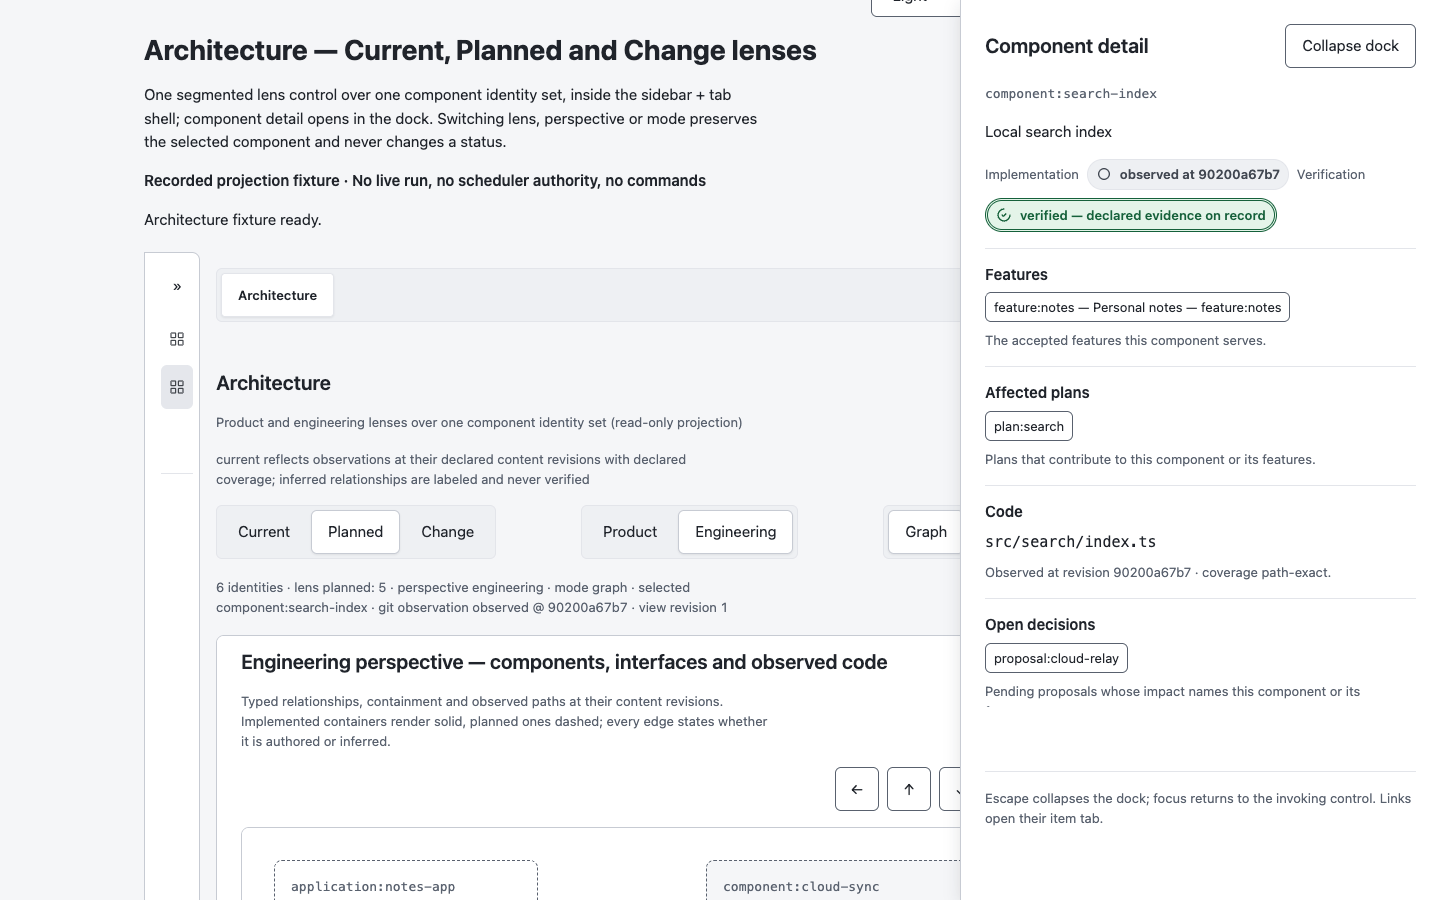
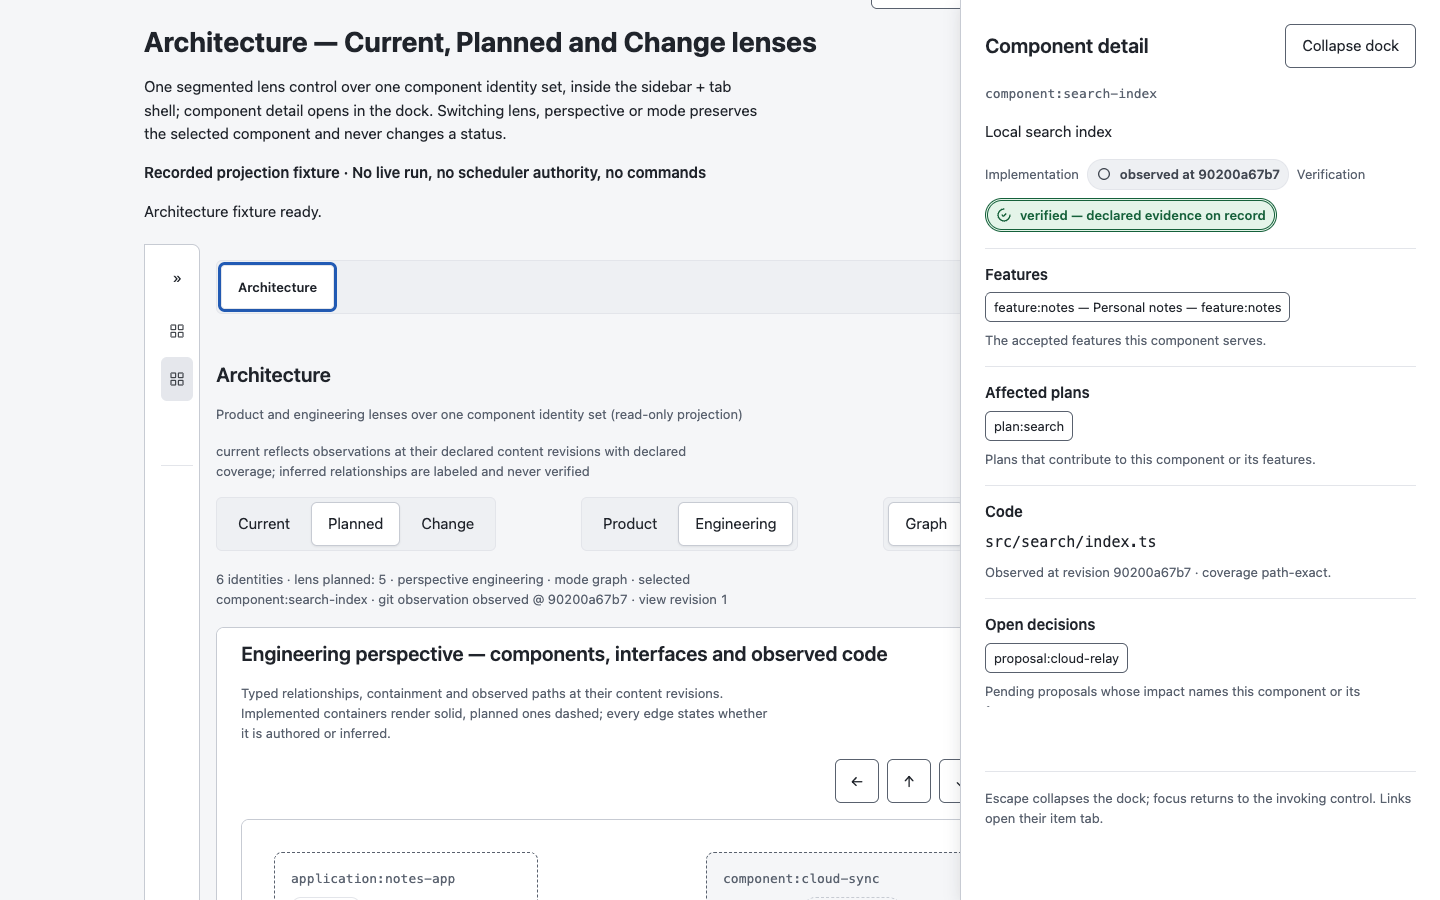
fix(ui): architecture audit round 2 — density gutters, accent preview, honest captures (T17)
Capture-session findings folded back into the view, then re-verified:

- SP-2: card-class containers (identity, journey, step, feature, change
  group) now share ONE padding driven by --density-gutter (16px regular /
  8px compact) like the overview tiles, so compact density shrinks gutters
  and never targets.
- CL-5: the demo page accepts ?product=<runtime> and flows it into the
  shell identity (sidebar badge + runtime label) — the accent preview is a
  load-time condition from the real per-product tokens, not a capture-time
  DOM edit; nothing status-like recolors.
- Retaken capture set with a frame-settled harness (double rAF + real
  input before every grab): headless Chrome can keep serving the last
  presented surface for attribute-only mutations, which had produced
  byte-identical captures across distinct accent/density states. The
  audit matrix now cites the corrected captures (three lenses + dock
  detail in light and dark, 390/1440 both themes, loading/empty/error,
  density pair with probe-asserted gutter tokens, focus ring, accent
  preview, polling tick, minimap at mid-width).

diff --git a/lazybuddy-plugin/shared/dashboard/ui/architecture.css b/lazybuddy-plugin/shared/dashboard/ui/architecture.css
@@ -23,8 +23,10 @@
 .architecture-status { min-block-size: var(--control); display: flex; align-items: center; margin: 0;
   font-variant-numeric: var(--numeric); }
 
-/* Treatments shared by every surface that renders an identity. */
-.architecture-identity { display: grid; gap: var(--space-2); inline-size: 100%; text-align: start; padding: var(--space-2);
+/* Treatments shared by every surface that renders an identity. Card-class
+   containers share ONE padding, driven by the density gutter (16px regular,
+   8px compact — SP-2), so compact shrinks gutters, never targets. */
+.architecture-identity { display: grid; gap: var(--space-2); inline-size: 100%; text-align: start; padding: var(--density-gutter);
   background: var(--surface); border: var(--line) solid var(--control-edge); border-radius: var(--radius-md); cursor: pointer; }
 .architecture-identity:hover { background: var(--hover); }
 .architecture-identity[aria-pressed='true'] { background: var(--selected); }
@@ -52,11 +54,11 @@
 .architecture-viewport:focus-visible { outline: var(--focus-width) solid var(--focus); outline-offset: var(--focus-offset); }
 
 .architecture-product[hidden], .architecture-engineering[hidden] { display: none; }
-.architecture-journey { padding: var(--space-3); border: var(--line) solid var(--border); border-radius: var(--radius-md); }
+.architecture-journey { padding: var(--density-gutter); border: var(--line) solid var(--border); border-radius: var(--radius-md); }
 .architecture-journey-steps { display: grid; gap: var(--space-3); margin: 0; padding: 0; list-style: none; }
 .architecture-step { display: grid; gap: var(--space-2); }
 .architecture-step[data-dimmed='true'] .architecture-step-control { opacity: 0.55; }
-.architecture-step-control { display: grid; gap: var(--space-2); inline-size: 100%; text-align: start; padding: var(--space-2);
+.architecture-step-control { display: grid; gap: var(--space-2); inline-size: 100%; text-align: start; padding: var(--density-gutter);
   background: var(--surface); border: var(--line) solid var(--control-edge); border-radius: var(--radius-md); cursor: pointer; }
 .architecture-step-control[data-treatment='planned'] { border-style: dashed; background: transparent; }
 .architecture-step-control[data-treatment='proposed'] { border-style: dashed; border-color: var(--subtle); background: var(--bg); }
@@ -111,7 +113,7 @@
 .architecture-minimap-viewport { fill: var(--selected); stroke: var(--control-edge); stroke-width: 1.5; }
 
 /* Change lens groups. */
-.architecture-change-group { padding: var(--space-3); border: var(--line) solid var(--border); border-radius: var(--radius-md); }
+.architecture-change-group { padding: var(--density-gutter); border: var(--line) solid var(--border); border-radius: var(--radius-md); }
 .architecture-change-toggle { min-block-size: auto; padding: var(--space-half) var(--space-1); font-size: var(--type-md-size);
   inline-size: fit-content; }
 .architecture-change-list { display: grid; gap: var(--space-2); margin: 0; padding: 0; list-style: none; }
@@ -149,7 +151,7 @@
   inline-size: fit-content; text-align: start; overflow-wrap: anywhere; }
 .architecture-features { padding: var(--space-4); }
 .architecture-features h3, .architecture-features h4, .architecture-features h5 { margin: 0; }
-.architecture-feature { padding: var(--space-3); border: var(--line) solid var(--border); border-radius: var(--radius-md); }
+.architecture-feature { padding: var(--density-gutter); border: var(--line) solid var(--border); border-radius: var(--radius-md); }
 .architecture-feature-group { gap: var(--space-1); }
 .architecture-feature-group ul { margin: 0; padding: 0; list-style: none; display: grid; gap: var(--space-half); }
 .architecture-feature-group ul.stack { gap: var(--space-half); }

diff --git a/docs/design/audit-results/architecture.md b/docs/design/audit-results/architecture.md
@@ -19,15 +19,15 @@ Task: T17 · View slug: architecture · Entry page: ui/architecture-demo.html ·
 | Section | Verdict | Failing items | Evidence / capture refs |
 | --- | --- | --- | --- |
 | S1 Hierarchy & typography | PASS | — | TY-1 driver probe asserts `h1 === 1` on every lens capture (numbers in capture-results.json); the view itself renders only h2/h3 section titles (dock h2 comes from `createDockPanel`); TY-2 probe walks headings — `skipped === 0` on every capture; TY-3 CSS audit: every `font-size` in architecture.css resolves to `var(--type-xs..md-size)` — zero size literals (v2 name set, no frozen aliases left); TY-4 the status sentence and the overview strip carry `font-variant-numeric: var(--numeric)` (`.architecture-status`, `.architecture-marker`, `.architecture-graph-wrap .graph-viewport-zoom`) so identity counts and revisions never jitter; TY-5 every identifier renders in `code` with `overflow-wrap: anywhere` (`.architecture-identity-head code`, `.architecture-step-identity code`, `.architecture-feature-group code`, dock `code`); TY-6 `captures/architecture/S1-hierarchy-light-1440-regular.png` (heading → toolbar → bounded status → canvas; no opening metric grid, no methodology paragraph); TY-7 CSS audit: the only font-weight is `var(--weight-strong)` beside inherited 400. |
-| S2 Spacing & alignment | PASS | — | SP-1 CSS audit: every `padding`/`margin`/`gap` resolves to `--space-*` (the 4px half-step only on marker/link nudges); no raw spacing values; SP-2 identity cards of one class share `padding: var(--space-2)` and switch gutters with density tokens — `captures/architecture/S10-density-{regular,compact}-light-1440.png` side-by-side; SP-3 `S1` + `S4-*-1440` captures: rail, tab panel, toolbar and canvas edges align on one grid (probe recorded zero off-grid overlap); SP-4 CSS audit: every `border-radius` is `var(--radius-xs..full)`; nested chips inside radius-md cards are the shared T12 chip system, one step apart at most; SP-5 list gutters (`--space-2`, indent steps `--space-5/7`) switch with density while every toolbar control holds `min-block-size: var(--density-control)` (`.architecture-toolbar button`). |
-| S3 Color & contrast | PASS | — | CL-1 CSS audit: zero hex/`rgb(`/`hsl(` literals in architecture.css; CL-2 status renders only through the shared `statusChip` ink/fill pairs; quiet structure via `--border`/`--hairline`; surfaces via `--surface`/`--inset` (`.architecture-minimap`); CL-3 `design-tokens.test.mjs#readable role pairs meet WCAG AA in light and dark` + `#T16 execution glance-state edges keep 3:1 on resting, hover and selected fills` (the view's one composed quiet pair — stale-ink inferred-edge labels and markers on `--subtle` ink over transparent-on-surface — rides pairs those cases already cover); CL-4 chips carry glyph+label+fill; unavailable is the hollow dashed state (`architecture-view.test.mjs#adversarial: the adapter fails closed…` asserts unobserved identities never render a neutral/healthy implementation chip) + `captures/architecture/S3-chips-dark-1440-regular.png` (attention chips, ghost row, markers); CL-5 static audit: architecture.css consumes no accent variable — accent stays on the shell's product badge and active destination; `captures/architecture/CL5-accent-LazyKimi-light-1440-regular.png` (accent swaps on identity only); CL-6 `design-tokens.test.mjs#interactive control edges keep 3:1 against every resting background`. |
+| S2 Spacing & alignment | PASS | — | SP-1 CSS audit: every `padding`/`margin`/`gap` resolves to `--space-*` (the 4px half-step only on marker/link nudges); no raw spacing values; SP-2 card-class containers (identity, journey, step, feature, change group) share ONE padding — `var(--density-gutter)`, 16px regular / 8px compact, asserted in the capture probe (`--density-gutter` reads `1rem`/`.5rem`) — `captures/architecture/S10-density-{regular,compact}-light-1440.png` side-by-side; SP-3 `S1` + `S4-*-1440` captures: rail, tab panel, toolbar and canvas edges align on one grid (probe recorded zero off-grid overlap); SP-4 CSS audit: every `border-radius` is `var(--radius-xs..full)`; nested chips inside radius-md cards are the shared T12 chip system, one step apart at most; SP-5 list gutters (`--space-2`, indent steps `--space-5/7`) switch with density while every toolbar control holds `min-block-size: var(--density-control)` (`.architecture-toolbar button`). |
+| S3 Color & contrast | PASS | — | CL-1 CSS audit: zero hex/`rgb(`/`hsl(` literals in architecture.css; CL-2 status renders only through the shared `statusChip` ink/fill pairs; quiet structure via `--border`/`--hairline`; surfaces via `--surface`/`--inset` (`.architecture-minimap`); CL-3 `design-tokens.test.mjs#readable role pairs meet WCAG AA in light and dark` + `#T16 execution glance-state edges keep 3:1 on resting, hover and selected fills` (the view's one composed quiet pair — stale-ink inferred-edge labels and markers on `--subtle` ink over transparent-on-surface — rides pairs those cases already cover); CL-4 chips carry glyph+label+fill; unavailable is the hollow dashed state (`architecture-view.test.mjs#adversarial: the adapter fails closed…` asserts unobserved identities never render a neutral/healthy implementation chip) + `captures/architecture/S3-chips-dark-1440-regular.png` (attention chips, ghost row, markers); CL-5 static audit: architecture.css consumes no accent variable — the view composes no accent surface at all; the demo page's `?product=<runtime>` preview flows a runtime into the shell identity, so `captures/architecture/CL5-accent-LazyKimi-light-1440-regular.png` shows the badge and labeled runtime swapped to the LazyKimi accent (probe asserts `.lb-sidebar-product[data-product='LazyKimi']`) while every status chip keeps its status ink — accent on identity only; CL-6 `design-tokens.test.mjs#interactive control edges keep 3:1 against every resting background`. |
 | S4 Layout & responsiveness | PASS | — | LA-1 probe at 390 in both themes: `scrollWidth 390 === innerWidth 390` (numbers recorded); `captures/architecture/S4-{light,dark}-390-regular.png` (icon rail, list mode, identifiers wrapping — the segment labels wrap as whole words, never mid-word: `.architecture-toolbar .native-segmented button { white-space: nowrap }` + group `flex-wrap`); LA-2 `S4-{light,dark}-1440-regular.png` — content inside the shell's `--content`, legend body capped at `max-inline-size: var(--measure)`; LA-3 `captures/architecture/LA3-dock-narrow-390-light.png` (dock usable at 390) + Escape/focus-return in `architecture-view.test.mjs#the dock journey opens every item tab through onOpenItem…`; LA-4 `architecture-view.test.mjs#adversarial stale_state: rapid lens/perspective/mode churn…` (selection, dock, lens survive a mid-flight update) + `captures/architecture/LA4-polling-light-1440-regular.png` (a real `__architectureTick` keeps selection and dock); LA-5 `captures/architecture/S10-legend-overlay-dark-1440-regular.png` (overlay above the scrim) + dock captures — no resting element z-fights (probe found zero pairwise overlap at both widths). |
 | S5 Motion | PASS | — | MO-1 CSS audit: architecture.css declares no `transition`/`animation` at all — the only motion is the shared button opacity fade from style.css, already on `--motion-*`; MO-2 no `infinite`/keyframes (audit); the capture session shows hover-only feedback; MO-3 `design-tokens.test.mjs#prefers-reduced-motion collapses every duration to zero` + MO-1 (nothing outside the tokens); MO-4 follows MO-1 (no view-level motion to budget). |
 | S6 Interaction & keyboard | PASS | — | IK-1 controls sit in DOM order; the only `tabIndex` assignments in the view are the two scroll regions at 0 (graph viewport, never above 0); `architecture-view.test.mjs#architecture lenses render…` step 8 drives Enter/ArrowDown selection in list mode; IK-2 `captures/architecture/IK2-focus-ring-light-1440-regular.png` (real Tab events; ring on a toolbar control) + the view's `:focus-visible` rules (viewport, minimap) resolve to the focus tokens; IK-3 `architecture-view.test.mjs#the dock journey opens every item tab through onOpenItem…` asserts Escape closes BOTH the dock and the legend overlay with focus returned to the invoking control; IK-4 every switcher is a `data-native-segmented` group (the test asserts role/aria/current on the lens tabs; perspective and mode are the same `segmentedControl` component) — the arrow/Home/End map is `test/ui-native-segmented.test.mjs` (6/6); IK-5 toolbar controls hold `--density-control`; the change-group collapse toggles are the one deliberate secondary in-card control (`min-block-size: auto`, the overview-audit precedent) — noted, not introduced by the shell; IK-6 N/A — the view has no filter input (no `/` target exists); IK-7 exactly one view-internal live region (`architecture-status`, `role=status`, one bounded sentence per render) beside the page bootstrap's settled `#load-status` — same shape as the overview audit. |
 | S7 States | PASS | — | ST-1 loading is the page bootstrap's bounded status line — `captures/architecture/S7-loading-light-1440-regular.png` (no zero metric, no fabricated observation; probe `ready:false` at capture time); ST-2 the empty dock is actionable — `captures/architecture/S7-empty-light-1440-regular.png` ("No component selected — select a component in any lens tab; its journey from feature to verification opens here", asserted in the driver); ST-3 the view is a synchronous pure projection — adapter failures throw typed `ArchitectureProjectionError` before render (`architecture-view.test.mjs#adversarial: the adapter fails closed…`); the page-level fetch failure degrades to the bounded retry line — `captures/architecture/S7-error-light-1440-regular.png` (fixture served as 404); ST-4 typed unavailable is honest — the adversarial case renders the real collector's unavailable output and asserts no identity renders a healthy implementation chip and the feature loses its code paths; the planned lens shows the per-identity face of it (`no current observation` hollow chips in `lens-planned-*-1440` captures); ST-5 the view renders no disabled controls — unavailable states are non-interactive hollow chips/rows, and the perspective with no data is the shell's explicit unavailable tab (page `destinationPanel`). |
 | S8 Forms | NA | — | The Architecture view has no form fields (FO-1..FO-4): it is a read-only projection over the recorded fixture; the page's only field-adjacent control is the theme select in the demo header, owned by the page bootstrap, not the view. |
 | S9 Content | PASS | — | CO-1 meta renders at `--type-sm` in `--subtle`, one line per fact cluster; paragraphs (roles, sources, supersession notes) live in the dock, not on cards — `S1` capture + CSS (`.meta` sizing, `.architecture-dock-body` sections); CO-2 the lead status sentence reads aloud as a human sentence ("5 identities · lens planned: 5 · perspective engineering · mode graph · git observation observed @ 850e4f6255" — visible in the S1 capture); CO-3 honest wording is test-enforced: implemented-without-evidence is the attention chip and never green, proposed renders "no code observed", inferred edges are labeled "· inferred", unmapped observed paths never become authored components (`architecture-view.test.mjs` cases 1 and 2); CO-4 authoritative values (ids, revisions, paths, sources) render as visible text; tooltips only supplement via the shared chip `title` pattern (`test/ui-native-hit-areas.test.mjs#status chips gain a title and a described state note exactly once`). |
-| S10 Native feel | PASS | — | NF-1 all three switchers (lens tabs, perspective, mode) are `segmentedControl` instances with `data-native-segmented`/`role=group`/one `aria-pressed` (asserted for the lens tabs in test case 1; visible in the density captures); NF-2 architecture.css declares no shadows — the resting page stays at elevation 0/1, the dock at 2 and the legend overlay at 3 through the library components (`captures/architecture/S10-legend-overlay-dark-1440-regular.png`); NF-3 density pair captures; gutters switch 16/8px, targets hold size, the choice persists through the T11 controller installed by the page bootstrap; NF-4 CSS audit — `font-family` appears once (`var(--sans)` for canvas edge labels), no `@font-face`/font URLs; NF-5 no custom scrollbars or chrome in view CSS (audit) + both-theme captures; NF-6 the product badge and the labeled active destination carry the accent (`CL5-accent-LazyKimi-light-1440-regular.png`), theme and density resolve before first paint via the page bootstrap. |
+| S10 Native feel | PASS | — | NF-1 all three switchers (lens tabs, perspective, mode) are `segmentedControl` instances with `data-native-segmented`/`role=group`/one `aria-pressed` (asserted for the lens tabs in test case 1; visible in the density captures); NF-2 architecture.css declares no shadows — the resting page stays at elevation 0/1, the dock at 2 and the legend overlay at 3 through the library components (`captures/architecture/S10-legend-overlay-dark-1440-regular.png`); NF-3 density pair captures; the card gutters switch 16/8px through `--density-gutter` (probe-asserted), targets hold size, the choice persists through the T11 controller installed by the page bootstrap; NF-4 CSS audit — `font-family` appears once (`var(--sans)` for canvas edge labels), no `@font-face`/font URLs; NF-5 no custom scrollbars or chrome in view CSS (audit) + both-theme captures; NF-6 the product badge and the labeled active destination carry the accent (`CL5-accent-LazyKimi-light-1440-regular.png`), theme and density resolve before first paint via the page bootstrap. |
 
 Additional view-specific evidence (the lens redesign contract, not a checklist
 section): one identity set across all lens tabs/perspectives/modes with
